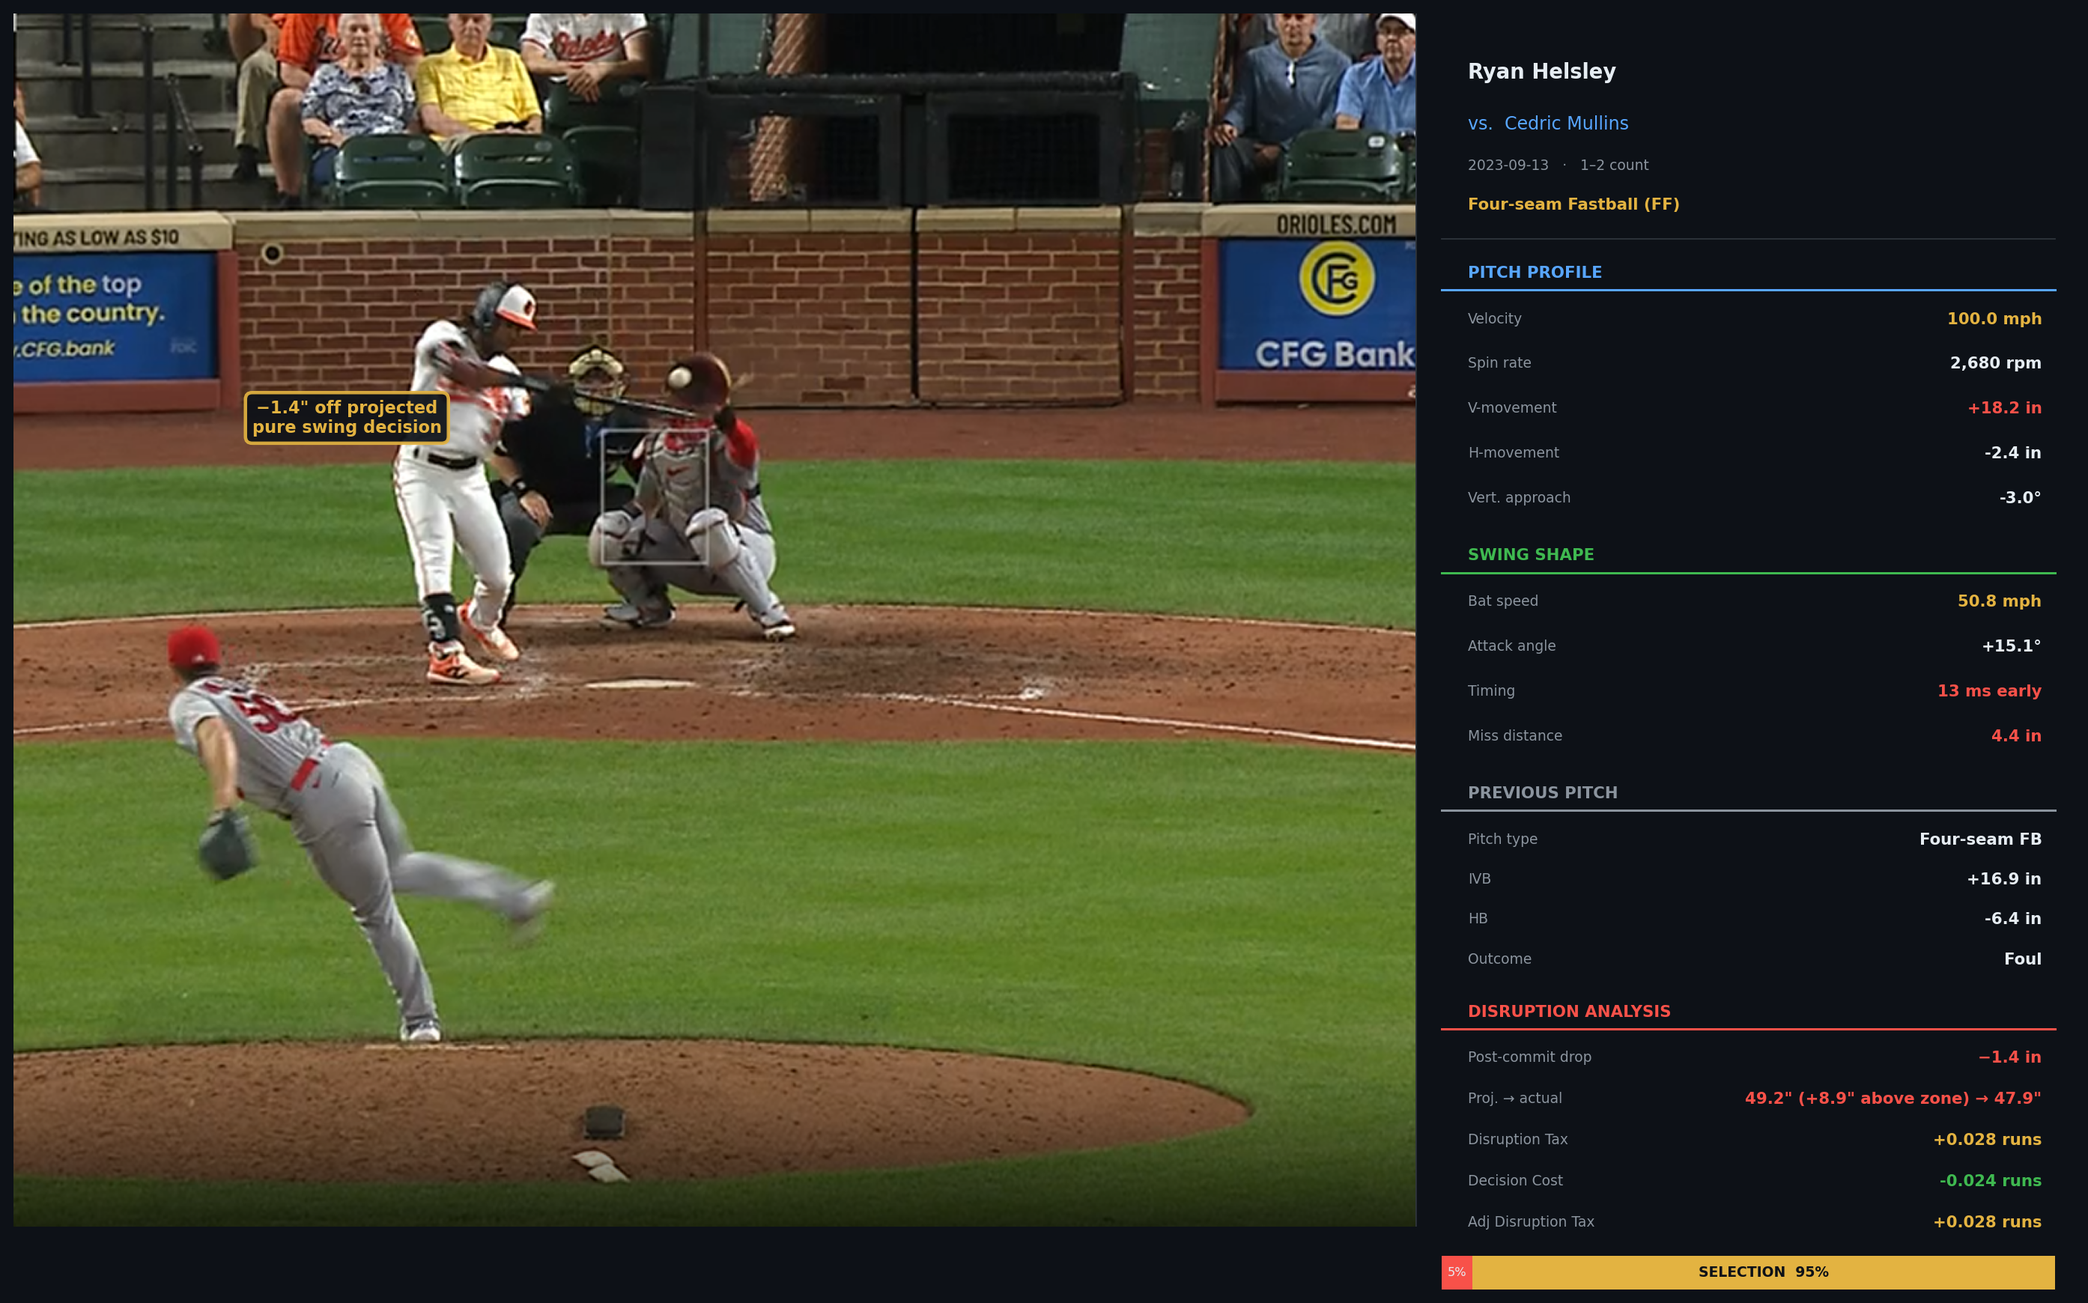
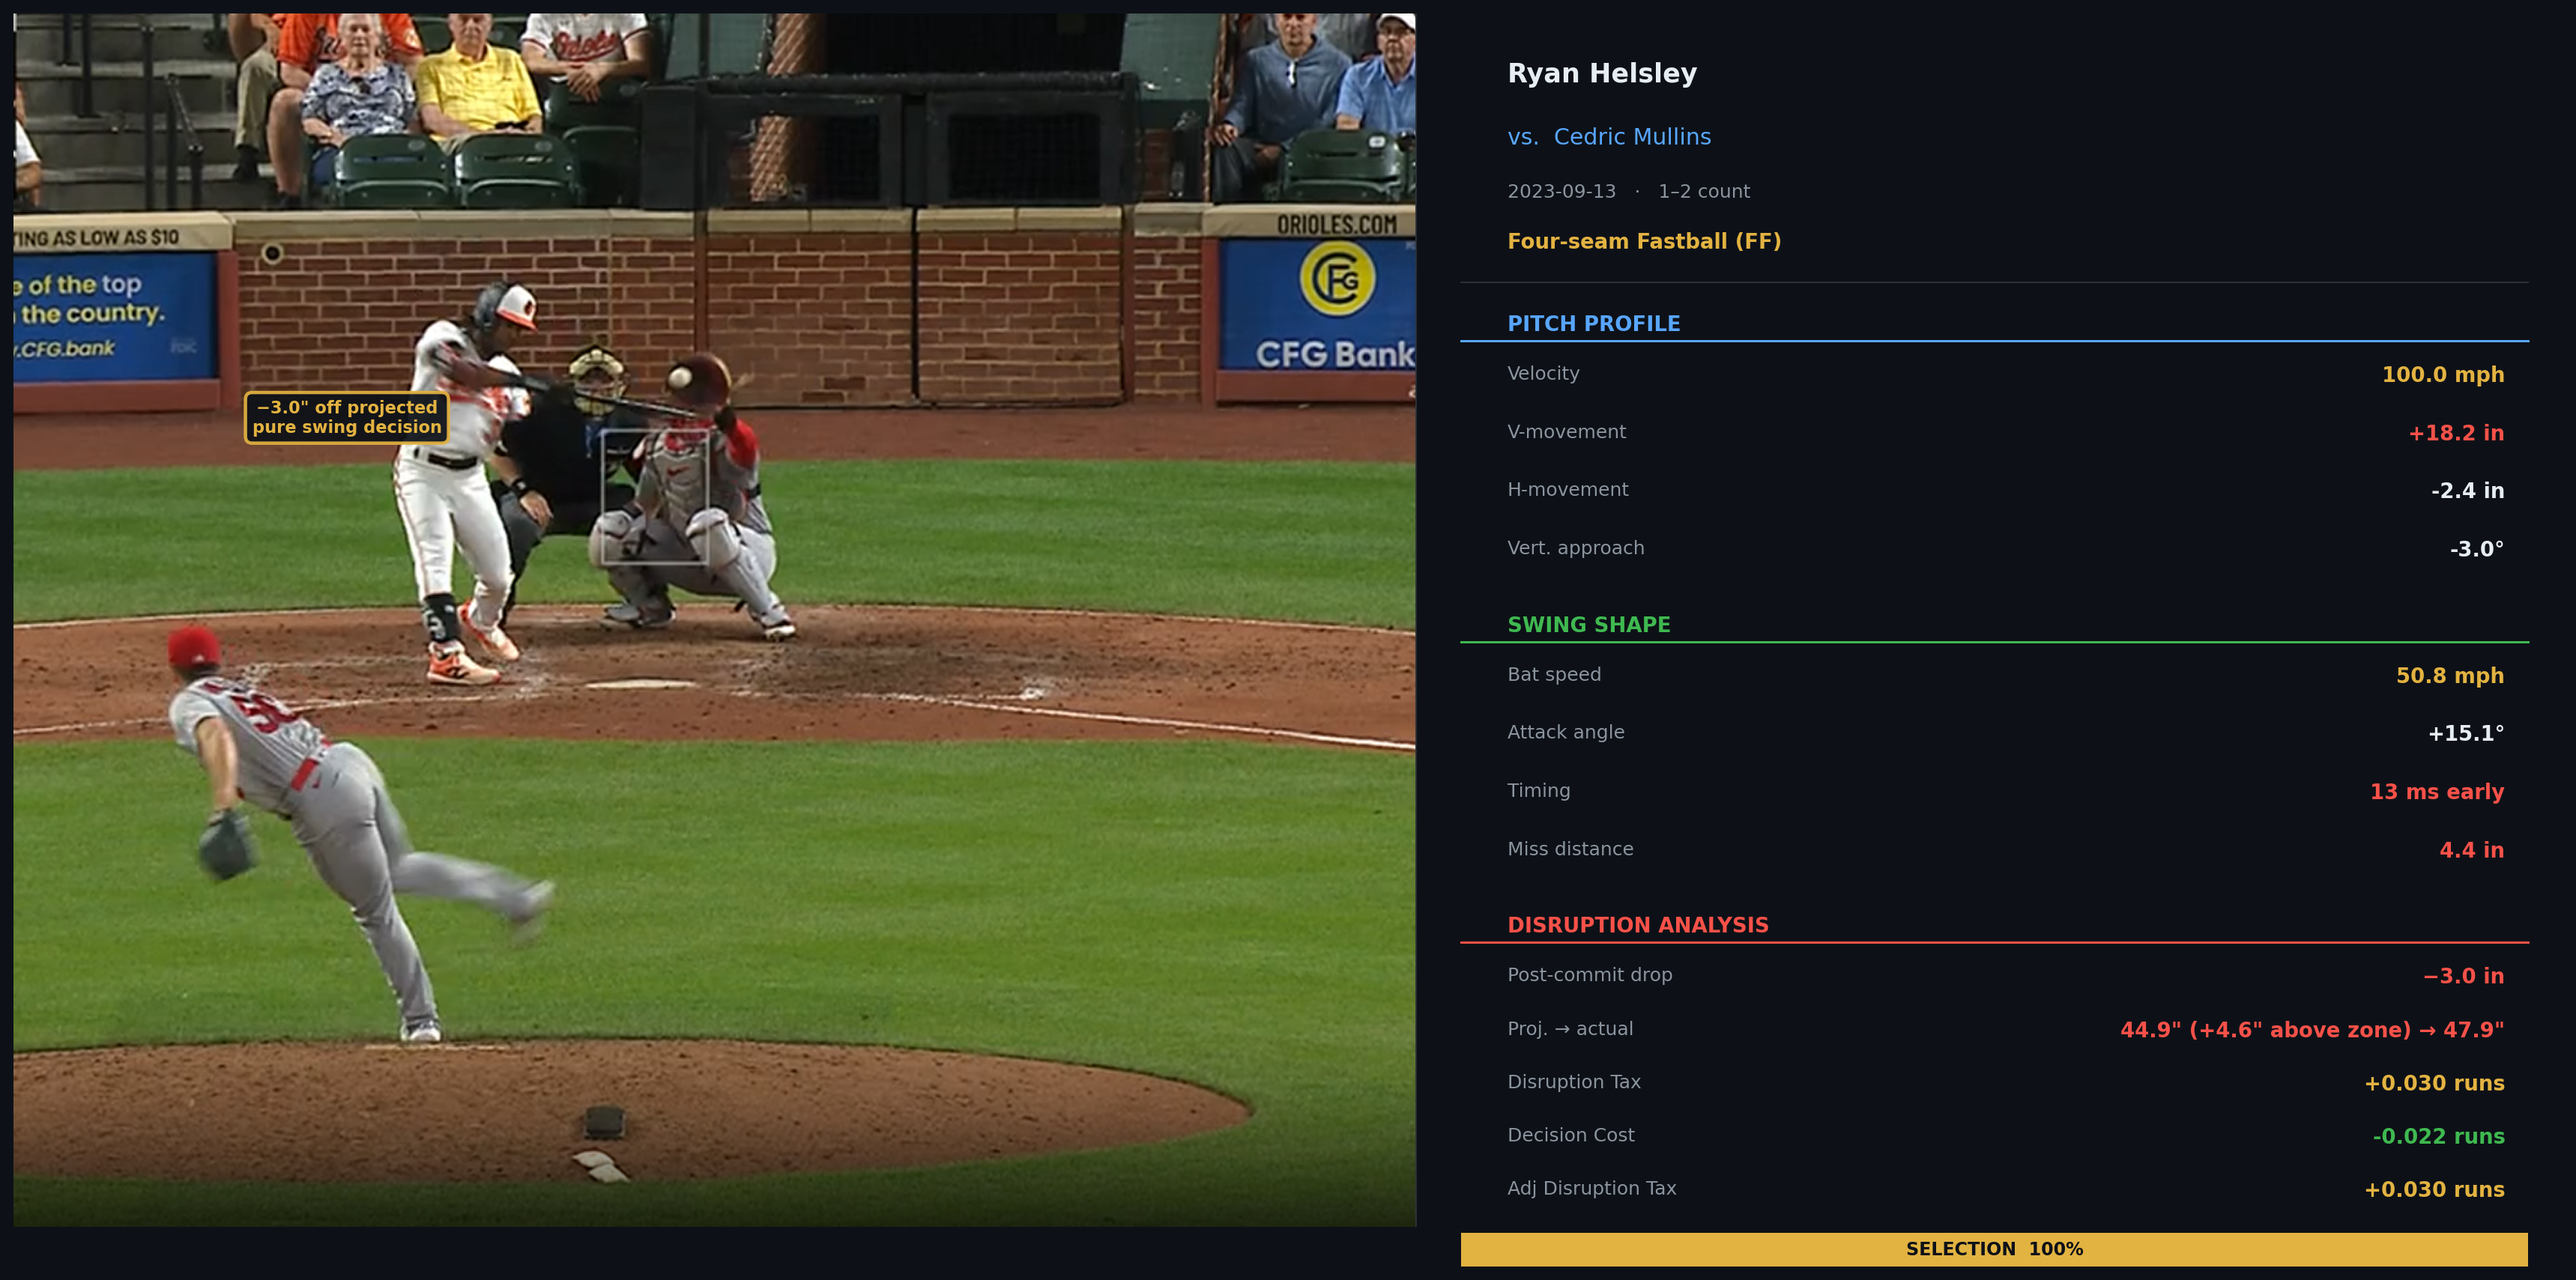
remove DB-dependent fields from kinematic diagrams; fix screenshot paths
Removed spin_rate and previous pitch context sections entirely since the
MySQL DB at 10.200.200.107 is no longer reachable. Dropped mysql.connector
import, _get_secret, _DESC_TO_OUTCOME, _OUTCOME_COLOR, and _PITCH_SHORT.
Updated screenshot paths from 'screenshots for kin diagrams/' to
'docs/screenshots/'. Regenerated all four case study PNGs.

diff --git a/src/viz/kinematic_diagram.py b/src/viz/kinematic_diagram.py
@@ -9,8 +9,6 @@ Saves: results/plots/case_studies/yamamoto_bernabel_annotation.png
        results/plots/case_studies/bradley_alonso_annotation.png
 """
 
-import os
-import re
 from pathlib import Path
 
 import matplotlib.pyplot as plt
@@ -37,49 +35,6 @@ _PITCH_TYPE_NAMES = {
     "FO": "Forkball (FO)",           "KN": "Knuckleball (KN)",
 }
 
-_PITCH_SHORT = {
-    "FF": "Four-seam FB", "SI": "Sinker",  "CH": "Changeup",
-    "SL": "Slider",       "CU": "Curveball", "FC": "Cutter",
-    "FS": "Splitter",     "KC": "Knuckle-curve", "ST": "Sweeper",
-    "SV": "Slurve",       "FO": "Forkball", "KN": "Knuckleball",
-}
-
-_DESC_TO_OUTCOME = {
-    "ball": "Ball", "blocked_ball": "Ball", "pitchout": "Ball",
-    "foul_pitchout": "Ball", "hit_by_pitch": "Ball",
-    "called_strike": "Called Strike",
-    "swinging_strike": "Swinging Strike",
-    "swinging_strike_blocked": "Swinging Strike",
-    "missed_bunt": "Swinging Strike",
-    "foul": "Foul", "foul_tip": "Foul", "foul_bunt": "Foul",
-    "bunt_foul_tip": "Foul",
-    "hit_into_play": "In Play",
-}
-
-_OUTCOME_COLOR = {
-    "Ball": GREEN,
-    "Called Strike": AMBER,
-    "Swinging Strike": RED,
-    "Foul": FG,
-    "In Play": FG,
-}
-
-
-# ── Data loader ───────────────────────────────────────────────────────────────
-
-def _get_secret(name):
-    val = os.environ.get(name)
-    if val:
-        return val
-    env_file = Path.home() / ".claude" / ".env"
-    if env_file.exists():
-        for line in env_file.read_text(encoding="utf-8", errors="ignore").splitlines():
-            m = re.match(rf"^\s*{re.escape(name)}\s*=\s*(.+)$", line)
-            if m:
-                return m.group(1).strip()
-    return None
-
-
 def load_pitch_metrics(
     game_pk, at_bat_number, pitch_number,
     commit_ms=150,
@@ -96,8 +51,6 @@ def load_pitch_metrics(
     Returns a flat dict suitable for passing to make_broadcast_annotation().
     prev_pitch is None when this is the first pitch of the at-bat.
     """
-    import mysql.connector
-
     pc = pd.read_parquet(precommit_path)
     cx = pd.read_parquet(causal_path)
 
@@ -107,45 +60,6 @@ def load_pitch_metrics(
     rc = cx.loc[(cx["game_pk"] == game_pk) &
                 (cx["at_bat_number"] == at_bat_number) &
                 (cx["pitch_number"] == pitch_number)].iloc[0]
-
-    conn = mysql.connector.connect(
-        host=_get_secret("BIOMECH_DB_HOST") or "10.200.200.107",
-        port=3306, user="readonlyuser",
-        password=_get_secret("BIOMECH_DB_PASS"), database="mlb_db",
-    )
-    cur = conn.cursor(dictionary=True)
-
-    # spin rate for the current pitch
-    cur.execute(
-        "SELECT release_spin_rate FROM pbp_raw "
-        "WHERE game_pk=%s AND at_bat_number=%s AND pitch_number=%s LIMIT 1",
-        (game_pk, at_bat_number, pitch_number),
-    )
-    spin_row = cur.fetchone() or {}
-
-    # previous pitch in this at-bat (None if first pitch)
-    prev_pitch = None
-    if pitch_number > 1:
-        cur.execute(
-            "SELECT pitch_type, pfx_x, pfx_z, pitch_outcome_explanation FROM pbp_raw "
-            "WHERE game_pk=%s AND at_bat_number=%s AND pitch_number=%s LIMIT 1",
-            (game_pk, at_bat_number, pitch_number - 1),
-        )
-        prev_row = cur.fetchone()
-        if prev_row:
-            pt_prev   = str(prev_row.get("pitch_type") or "")
-            raw_outcome = prev_row.get("pitch_outcome_explanation", "") or ""
-            outcome     = _DESC_TO_OUTCOME.get(raw_outcome, raw_outcome or "—")
-            pfx_x_raw = prev_row.get("pfx_x")
-            pfx_z_raw = prev_row.get("pfx_z")
-            prev_pitch = dict(
-                pitch_type = _PITCH_SHORT.get(pt_prev, pt_prev) or "—",
-                ivb_in     = float(pfx_z_raw) * 12 if pfx_z_raw is not None else None,
-                hb_in      = float(pfx_x_raw) * 12 if pfx_x_raw is not None else None,
-                outcome    = outcome,
-            )
-
-    conn.close()
 
     pt_code = str(rp.get("pitch_type", ""))
     balls   = int(rp["balls"])
@@ -165,7 +79,6 @@ def load_pitch_metrics(
         pitch_type       = _PITCH_TYPE_NAMES.get(pt_code, pt_code),
         # pitch profile
         release_speed    = float(rp["release_speed"]),
-        spin_rate        = float(spin_row.get("release_spin_rate") or 0),
         pfx_h_in         = float(rp["pfx_x"]) * 12,
         pfx_v_in         = float(rp["pfx_z"]) * 12,
         vaa              = float(rp["vaa"]),
@@ -185,8 +98,6 @@ def load_pitch_metrics(
         adjusted_disruption_tax = float(rc["adjusted_disruption_tax"]),
         decision_cost           = float(rc["decision_cost"]),
         distortion_share        = float(rc["distortion_share"]) * 100,
-        # previous pitch context
-        prev_pitch       = prev_pitch,
     )
 
 
@@ -274,7 +185,6 @@ def make_broadcast_annotation(
     # pitch profile
     y = section_title(y, "PITCH PROFILE", BLUE)
     row(y, "Velocity",       f"{data['release_speed']:.1f} mph",    AMBER); y -= rs
-    row(y, "Spin rate",      f"{data['spin_rate']:,.0f} rpm",        FG);   y -= rs
     row(y, "V-movement",     f"{data['pfx_v_in']:+.1f} in",         RED);  y -= rs
     row(y, "H-movement",     f"{data['pfx_h_in']:+.1f} in",         FG);   y -= rs
     row(y, "Vert. approach", f"{data['vaa']:.1f}°",                 FG);   y -= rs
@@ -291,27 +201,6 @@ def make_broadcast_annotation(
         row(y, "Timing", "n/a", GRAY)
     y -= rs
     row(y, "Miss distance", f"{data['miss_in']:.1f} in", RED); y -= rs
-    y -= pad
-
-    # previous pitch context
-    y = section_title(y, "PREVIOUS PITCH", GRAY)
-    pp = data.get("prev_pitch")
-    if pp is None:
-        ax_p.text(
-            (xs + xe) / 2, y, "First pitch of at-bat",
-            color=GRAY, fontsize=10, va="top", ha="center",
-            fontstyle="italic", transform=ax_p.transAxes,
-        )
-        y -= 0.042
-    else:
-        rs_pp = 0.044
-        row(y, "Pitch type", pp["pitch_type"],                           FG);    y -= rs_pp
-        ivb_str = f"{pp['ivb_in']:+.1f} in" if pp["ivb_in"] is not None else "—"
-        hb_str  = f"{pp['hb_in']:+.1f} in"  if pp["hb_in"]  is not None else "—"
-        row(y, "IVB",        ivb_str,                                    FG);    y -= rs_pp
-        row(y, "HB",         hb_str,                                     FG);    y -= rs_pp
-        oc      = pp["outcome"]
-        row(y, "Outcome",    oc, _OUTCOME_COLOR.get(oc, FG));                    y -= rs_pp
     y -= pad
 
     # disruption analysis
@@ -390,10 +279,10 @@ def make_broadcast_annotation(
 
 # ── Screenshot paths ──────────────────────────────────────────────────────────
 
-_YB_SCREENSHOT = "screenshots for kin diagrams/Screenshot 2026-06-22 100819.png"
-_LR_SCREENSHOT = "screenshots for kin diagrams/Screenshot 2026-06-23 102000.png"
-_HM_SCREENSHOT = "screenshots for kin diagrams/Screenshot 2026-06-23 104858.png"
-_SH_SCREENSHOT = "screenshots for kin diagrams/Screenshot 2026-06-23 105031.png"
+_YB_SCREENSHOT = "docs/screenshots/Screenshot 2026-06-22 100819.png"
+_LR_SCREENSHOT = "docs/screenshots/Screenshot 2026-06-23 102000.png"
+_HM_SCREENSHOT = "docs/screenshots/Screenshot 2026-06-23 104858.png"
+_SH_SCREENSHOT = "docs/screenshots/Screenshot 2026-06-23 105031.png"
 
 
 # ── Load metrics from data ────────────────────────────────────────────────────
